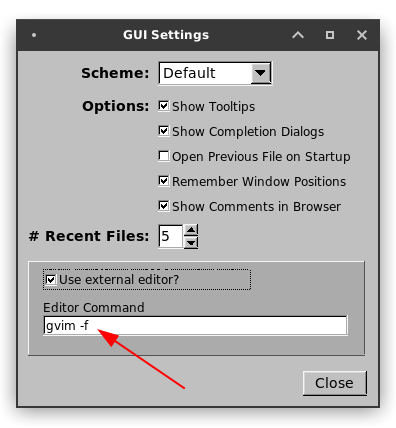
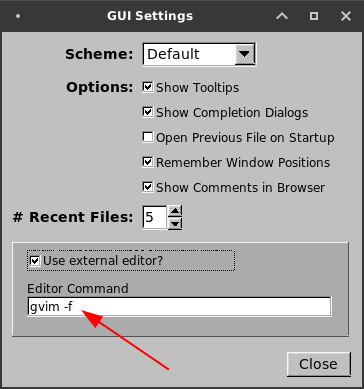
Atualização automática

diff --git a/posts/cpp-fltk-fluid/index.html b/posts/cpp-fltk-fluid/index.html
@@ -171,8 +171,8 @@ if (!doNotTrack) {
 </code></pre></div>
   <div class="center-align">
     <figure>
-      <source srcset="/img/fltk-fluid-01.webp" width="396" height="428" type="image/webp">
-      <img class="responsive-img z-depth-3" src="/img/fltk-fluid-01.png" alt="Usando o gvim em modo foreground." width="396" height="428">
+      <source srcset="/img/fltk-fluid-01.webp" width="364" height="389" type="image/webp">
+      <img class="responsive-img z-depth-3" src="/img/fltk-fluid-01.png" alt="Usando o gvim em modo foreground." width="364" height="389">
       <figcaption>Usando o gvim em modo foreground.</figcaption>
     </figure>
   </div>
